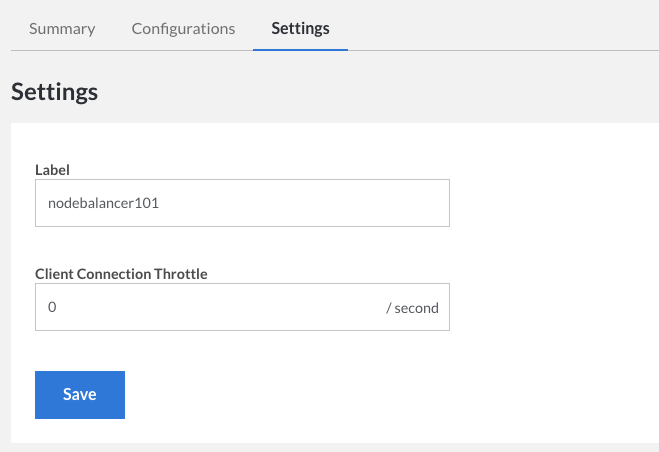
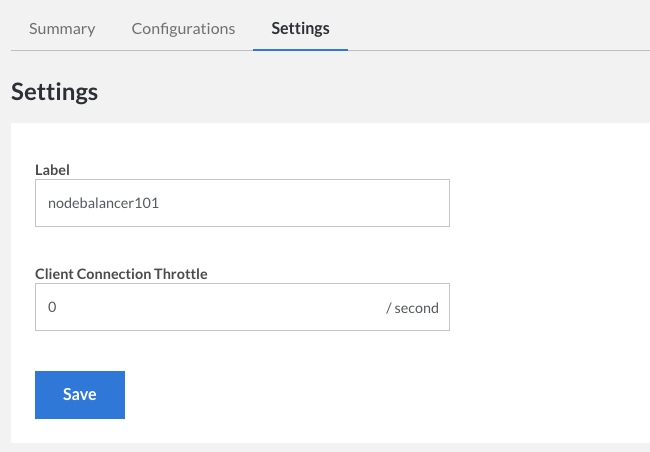
Included smaller image files

diff --git a/docs/platform/nodebalancer/nodebalancer-reference-guide-new-manager/index.md b/docs/platform/nodebalancer/nodebalancer-reference-guide-new-manager/index.md
@@ -22,7 +22,7 @@ This is the NodeBalancer reference guide. Please see the [NodeBalancer Getting S
 
 Click the NodeBalancers page, and then "Add a NodeBalancer". You must choose the same location as your back-end Linodes for a given deployment.
 
-![NodeBalancer page in Linode Manager](nodebalancer-rg-add-a-nodebalancer.png "NodeBalancer page in Linode Manager")
+[![NodeBalancer page in Linode Manager](nodebalancer-rg-add-a-nodebalancer-small.png "NodeBalancer page in Linode Manager")](nodebalancer-rg-add-a-nodebalancer.png)
 
 ## NodeBalancer Settings
 
@@ -32,7 +32,7 @@ Here you may adjust the NodeBalancer's display label, along with the 'Client Con
 
 ## Configuration
 
-![NodeBalancer Configuration in Linode Manager](nodebalancer-rg-nodebalancer-config1.png "NodeBalancer Configuration in Linode Manager")
+[![NodeBalancer Configuration in Linode Manager](nodebalancer-rg-nodebalancer-config1-small.png "NodeBalancer Configuration in Linode Manager")](nodebalancer-rg-nodebalancer-config1.png)
 
 Each NodeBalancer config adds another port that the NodeBalancer will listen on. For instance, if you wish to balance both port 80 and 81, you'll need to add two configuration profiles to your NodeBalancer.
 
@@ -130,7 +130,7 @@ Three different Health Check Types exist:
 
 ## Nodes
 
-![NodeBalancer Configuration in Linode Manager](nodebalancer-rg-nodebalancer-config2.png "NodeBalancer Configuration in Linode Manager")
+[![NodeBalancer Configuration in Linode Manager](nodebalancer-rg-nodebalancer-config2-small.png "NodeBalancer Configuration in Linode Manager")](nodebalancer-rg-nodebalancer-config2.png)
 
 NodeBalancers work over the private network. Backend nodes must have a private IP configured via [static networking](/docs/networking/configuring-static-ip-interfaces).
 
